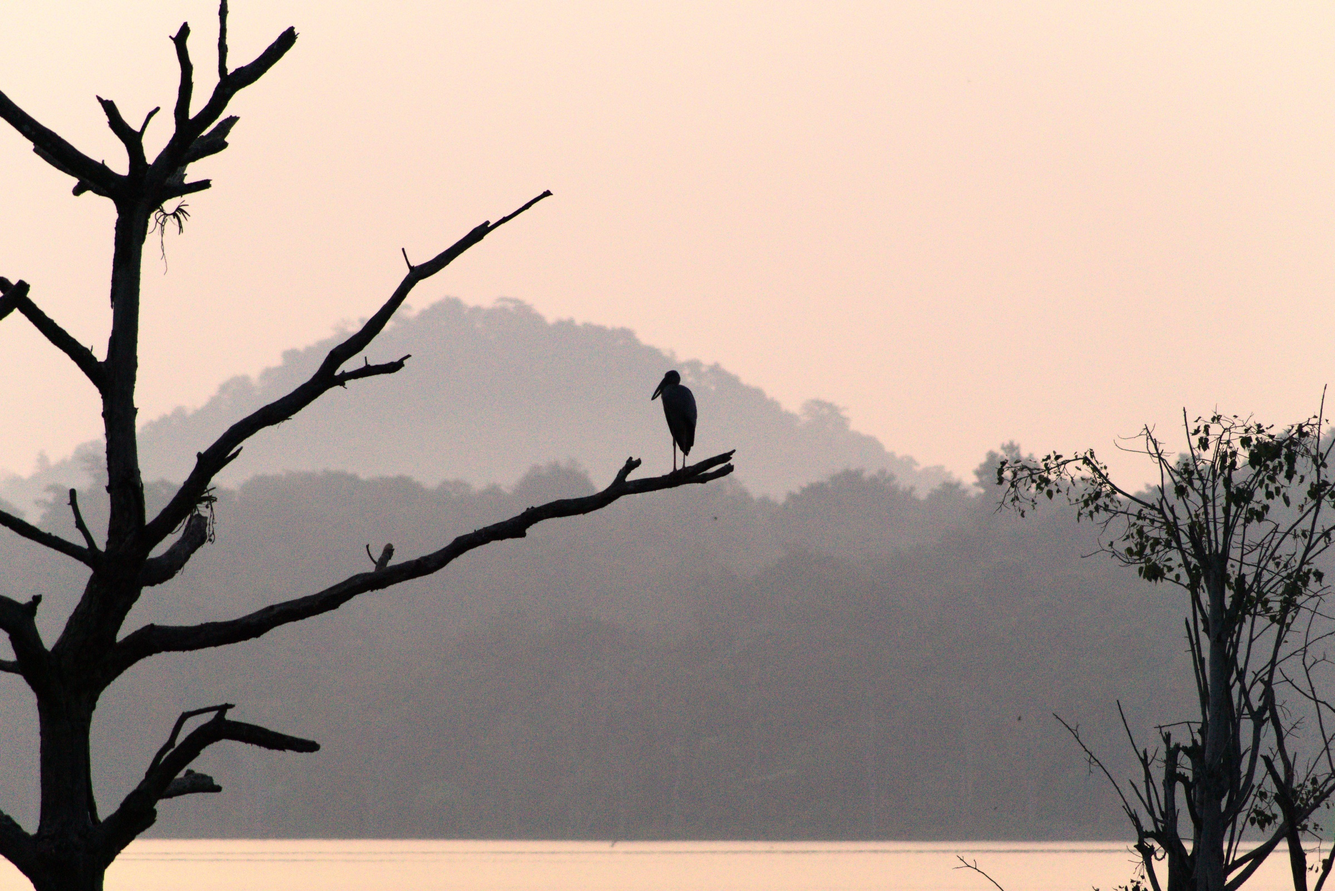
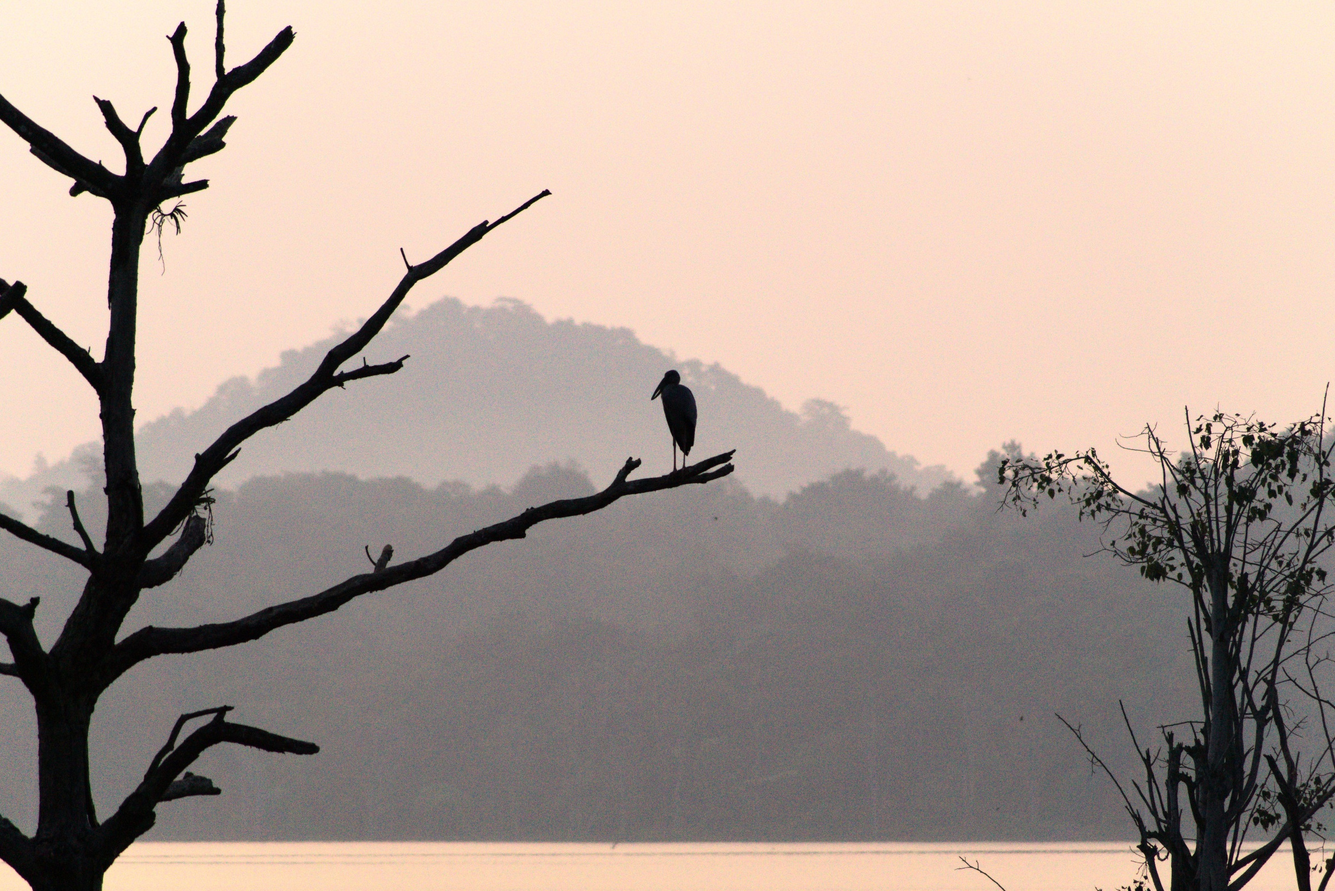
lens: cut 12 weak/duplicate frames, level driftwood/openbill/blue-break, flush masonry grid
- Removed: giant-clam, giant-moray, moray-crevice, moon-jelly (soft/murky underwater),
  valparai-dusk (duplicate of valley-dusk), wake, palm-road, forest-mirror,
  moonrise-cliff, pink-clouds (near-duplicate of sunburst-pine), peacock-display
  (fourth peacock), sandstone-cliffs (duplicate of cliff-gold)
- brain-coral moved from Selected to the archive (motion blur)
- Levelled pink-driftwood (-0.6), heron-snag (+0.15), blue-break (-0.21);
  trimmed a 6px light strip off harbour-afterglow's left edge
- Selected grid: row-major masonry (shortest-column), order tuned so the 2- and
  3-column layouts both end flush; similar frames kept apart

diff --git a/src/lib/lens.ts b/src/lib/lens.ts
@@ -99,78 +99,66 @@ export const services = [
 export const gear = ["GoPro HERO9 Black", "Sony α58", "SJCAM 4K", "Phone (Samsung / OnePlus)", "Edit: DaVinci Resolve, ffmpeg, custom grading"];
 
 export const photos: LensPhoto[] = [
-  { slug: "heron-snag", title: "Asian openbill at first light", place: "Dubare, Karnataka", date: "2017", cat: "wildlife", w: 2400, h: 1602, species: "Anastomus oscitans", selected: 2.5 },
-  { slug: "dawn-snags", title: "Drowned forest, sunrise", place: "Dubare, Karnataka", date: "2017", cat: "landscape", w: 2400, h: 1602, selected: 9.2 },
+  { slug: "heron-snag", title: "Asian openbill at first light", place: "Dubare, Karnataka", date: "2017", cat: "wildlife", w: 2400, h: 1602, species: "Anastomus oscitans", selected: 4 },
+  { slug: "dawn-snags", title: "Drowned forest, sunrise", place: "Dubare, Karnataka", date: "2017", cat: "landscape", w: 2400, h: 1602, selected: 20 },
   { slug: "sun-snag", title: "Still water, low sun", place: "Dubare, Karnataka", date: "2017", cat: "landscape", w: 1602, h: 2400 },
   { slug: "cormorant-snag", title: "Cormorant", place: "Dubare, Karnataka", date: "2017", cat: "wildlife", w: 1919, h: 2400, species: "Phalacrocoracidae" },
-  { slug: "vine-snake", title: "Green vine snake", place: "Dandeli, Karnataka", date: "Oct 2018", cat: "wildlife", w: 1601, h: 2001, species: "Ahaetulla nasuta", selected: 0 },
+  { slug: "vine-snake", title: "Green vine snake", place: "Dandeli, Karnataka", date: "Oct 2018", cat: "wildlife", w: 1601, h: 2001, species: "Ahaetulla nasuta", selected: 1 },
   { slug: "spotted-deer", title: "Chital", place: "Dandeli, Karnataka", date: "Oct 2018", cat: "wildlife", w: 2400, h: 1600, species: "Axis axis" },
   { slug: "golden-orb", title: "Giant golden orb weaver", place: "Western Ghats", date: "Sep 2018", cat: "macro", w: 1920, h: 2400, species: "Nephila pilipes" },
   { slug: "grass-sun", title: "Last light", place: "Dandeli, Karnataka", date: "Oct 2018", cat: "landscape", w: 2400, h: 1600 },
-  { slug: "dudhsagar-tunnel", title: "Dudhsagar through the tunnel", place: "Goa–Karnataka border", date: "Oct 2018", cat: "landscape", w: 1919, h: 2400, selected: 19 },
-  { slug: "lotus-mahal-arches", title: "Arches, Lotus Mahal", place: "Hampi", date: "Jul 2019", cat: "architecture", w: 1920, h: 2400, selected: 6 },
+  { slug: "dudhsagar-tunnel", title: "Dudhsagar through the tunnel", place: "Goa–Karnataka border", date: "Oct 2018", cat: "landscape", w: 1919, h: 2400, selected: 5 },
+  { slug: "lotus-mahal-arches", title: "Arches, Lotus Mahal", place: "Hampi", date: "Jul 2019", cat: "architecture", w: 1920, h: 2400, selected: 3 },
   { slug: "stepped-tank", title: "Stepped tank", place: "Hampi", date: "Jul 2019", cat: "architecture", w: 2400, h: 1600 },
   { slug: "elephant-stables", title: "Elephant stables", place: "Hampi", date: "Jul 2019", cat: "architecture", w: 2400, h: 1349 },
-  { slug: "wave-silhouette", title: "Silver sea", place: "Mangaluru", date: "Aug 2019", cat: "seascape", w: 2400, h: 1600, selected: 12 },
+  { slug: "wave-silhouette", title: "Silver sea", place: "Mangaluru", date: "Aug 2019", cat: "seascape", w: 2400, h: 1600, selected: 28 },
   { slug: "diya", title: "Diya", place: "Karnataka", date: "Dec 2014", cat: "macro", w: 1920, h: 2400 },
-  { slug: "peacock-fan", title: "Indian peafowl", place: "Jogimatti", date: "2015", cat: "wildlife", w: 1920, h: 2400, species: "Pavo cristatus", selected: 13 },
+  { slug: "peacock-fan", title: "Indian peafowl", place: "Jogimatti", date: "2015", cat: "wildlife", w: 1920, h: 2400, species: "Pavo cristatus", selected: 11 },
   { slug: "peacock-ooty", title: "Indian peafowl", place: "Ooty", date: "2013", cat: "wildlife", w: 1878, h: 2348, species: "Pavo cristatus" },
   { slug: "elephant-herd", title: "Asian elephants", place: "Masinagudi", date: "Jul 2022", cat: "wildlife", w: 2400, h: 1600, species: "Elephas maximus" },
-  { slug: "yana-spires", title: "Yana", place: "Uttara Kannada", date: "Nov 2020", cat: "landscape", w: 1920, h: 2400, selected: 18 },
-  { slug: "sea-cave-window", title: "Window", place: "Andaman Islands", date: "2023", cat: "adventure", w: 1920, h: 2400, selected: 5 },
+  { slug: "yana-spires", title: "Yana", place: "Uttara Kannada", date: "Nov 2020", cat: "landscape", w: 1920, h: 2400, selected: 16 },
+  { slug: "sea-cave-window", title: "Window", place: "Andaman Islands", date: "2023", cat: "adventure", w: 1920, h: 2400, selected: 12 },
   { slug: "tidepools", title: "Tidepools", place: "Andaman Islands", date: "May 2023", cat: "seascape", w: 2271, h: 1514 },
   { slug: "mangrove", title: "Mangrove", place: "Andaman Islands", date: "Apr 2022", cat: "seascape", w: 2400, h: 1600 },
-  { slug: "trees-in-the-tide", title: "Trees in the tide", place: "Andaman Islands", date: "Apr 2022", cat: "seascape", w: 2400, h: 1350, selected: 15 },
-  { slug: "forest-mirror", title: "Forest mirror", place: "Andaman Islands", date: "Apr 2022", cat: "landscape", w: 2400, h: 1350 },
-  { slug: "valparai-dusk", title: "Valley at dusk", place: "Valparai", date: "Nov 2023", cat: "landscape", w: 2400, h: 1600 },
-  { slug: "clownfish", title: "Ocellaris clownfish", place: "Andaman Islands", date: "2023", cat: "underwater", w: 1440, h: 1800, species: "Amphiprion ocellaris", selected: 2 },
-  { slug: "wake", title: "Wake", place: "Andaman Sea", date: "Apr 2022", cat: "seascape", w: 1459, h: 1824 },
-  { slug: "palm-road", title: "Palm road", place: "Goa", date: "Oct 2021", cat: "landscape", w: 1504, h: 1880 },
-  { slug: "gaur", title: "Indian gaur", place: "Masinagudi, Nilgiris", date: "Jul 2022", cat: "wildlife", w: 2400, h: 1599, species: "Bos gaurus", selected: 1 },
-  { slug: "vulture-flock", title: "White-rumped vultures", place: "Masinagudi, Nilgiris", date: "Jul 2022", cat: "wildlife", w: 2400, h: 1350, species: "Gyps bengalensis · Critically Endangered", selected: 3 },
+  { slug: "trees-in-the-tide", title: "Trees in the tide", place: "Andaman Islands", date: "Apr 2022", cat: "seascape", w: 2400, h: 1350, selected: 27 },
+  { slug: "clownfish", title: "Ocellaris clownfish", place: "Andaman Islands", date: "2023", cat: "underwater", w: 1440, h: 1800, species: "Amphiprion ocellaris", selected: 13 },
+  { slug: "gaur", title: "Indian gaur", place: "Masinagudi, Nilgiris", date: "Jul 2022", cat: "wildlife", w: 2400, h: 1599, species: "Bos gaurus", selected: 6 },
+  { slug: "vulture-flock", title: "White-rumped vultures", place: "Masinagudi, Nilgiris", date: "Jul 2022", cat: "wildlife", w: 2400, h: 1350, species: "Gyps bengalensis · Critically Endangered", selected: 31 },
   { slug: "vultures-wings", title: "White-rumped vultures", place: "Masinagudi, Nilgiris", date: "Jul 2022", cat: "wildlife", w: 2400, h: 1600, species: "Gyps bengalensis · Critically Endangered" },
-  { slug: "tusker", title: "Asian elephant", place: "Masinagudi, Nilgiris", date: "Jul 2022", cat: "wildlife", w: 1921, h: 2400, species: "Elephas maximus", selected: 10 },
+  { slug: "tusker", title: "Asian elephant", place: "Masinagudi, Nilgiris", date: "Jul 2022", cat: "wildlife", w: 1921, h: 2400, species: "Elephas maximus", selected: 15 },
   { slug: "peacock-train", title: "Indian peafowl", place: "Masinagudi, Nilgiris", date: "Jul 2022", cat: "wildlife", w: 2400, h: 1600, species: "Pavo cristatus" },
-  { slug: "peacock-display", title: "Indian peafowl", place: "Masinagudi, Nilgiris", date: "Jul 2022", cat: "wildlife", w: 1716, h: 2144, species: "Pavo cristatus" },
-  { slug: "deer-and-boar", title: "Chital & Indian wild boar", place: "Masinagudi, Nilgiris", date: "Jul 2022", cat: "wildlife", w: 2400, h: 1600, species: "Axis axis · Sus scrofa", selected: 16 },
+  { slug: "deer-and-boar", title: "Chital & Indian wild boar", place: "Masinagudi, Nilgiris", date: "Jul 2022", cat: "wildlife", w: 2400, h: 1600, species: "Axis axis · Sus scrofa", selected: 26 },
   { slug: "wild-boar", title: "Indian wild boar", place: "Masinagudi, Nilgiris", date: "Jul 2022", cat: "wildlife", w: 2026, h: 1350, species: "Sus scrofa cristatus" },
   { slug: "anthias-whip", title: "Sea goldies", place: "Andaman Islands", date: "", cat: "underwater", w: 864, h: 1080, species: "Pseudanthias squamipinnis" },
   { slug: "barrel-coral", title: "Barrel sponge", place: "Andaman Islands", date: "", cat: "underwater", w: 2400, h: 1600, species: "Xestospongia sp." },
   { slug: "blue-sea-star", title: "Blue sea star", place: "Andaman Islands", date: "", cat: "underwater", w: 905, h: 1131, species: "Linckia laevigata" },
-  { slug: "brain-coral", title: "Brain coral", place: "Andaman Islands", date: "", cat: "underwater", w: 1156, h: 1444, species: "Platygyra sp.", selected: 14 },
+  { slug: "brain-coral", title: "Brain coral", place: "Andaman Islands", date: "", cat: "underwater", w: 1156, h: 1444, species: "Platygyra sp." },
   { slug: "crinoid", title: "Feather star", place: "Andaman Islands", date: "", cat: "underwater", w: 1273, h: 1590, species: "Crinoidea" },
   { slug: "feather-star", title: "Feather star", place: "Andaman Islands", date: "", cat: "underwater", w: 1080, h: 1350, species: "Crinoidea" },
-  { slug: "fish-school", title: "Fusiliers", place: "Andaman Islands", date: "", cat: "underwater", w: 1728, h: 2160, species: "Caesionidae", selected: 8 },
-  { slug: "giant-clam", title: "Giant clam", place: "Andaman Islands", date: "", cat: "underwater", w: 1520, h: 1900, species: "Tridacna sp.", selected: 17 },
-  { slug: "moon-jelly", title: "Jellyfish", place: "Andaman Islands", date: "", cat: "underwater", w: 1080, h: 1350, species: "Scyphozoa" },
-  { slug: "sea-fan", title: "Sea fan & sea goldies", place: "Andaman Islands", date: "", cat: "underwater", w: 1080, h: 1350, species: "Pseudanthias squamipinnis", selected: 4 },
+  { slug: "fish-school", title: "Fusiliers", place: "Andaman Islands", date: "", cat: "underwater", w: 1728, h: 2160, species: "Caesionidae", selected: 17 },
+  { slug: "sea-fan", title: "Sea fan & sea goldies", place: "Andaman Islands", date: "", cat: "underwater", w: 1080, h: 1350, species: "Pseudanthias squamipinnis", selected: 7 },
   { slug: "sea-krait", title: "Banded sea krait", place: "Andaman Islands", date: "", cat: "underwater", w: 2280, h: 1520, species: "Laticauda colubrina" },
-  { slug: "staghorn-anthias", title: "Staghorn coral", place: "Andaman Islands", date: "", cat: "underwater", w: 1520, h: 1900, species: "Acropora sp.", selected: 7 },
+  { slug: "staghorn-anthias", title: "Staghorn coral", place: "Andaman Islands", date: "", cat: "underwater", w: 1520, h: 1900, species: "Acropora sp.", selected: 2 },
   { slug: "sweetlips", title: "Titan triggerfish", place: "Andaman Islands", date: "", cat: "underwater", w: 2000, h: 1333, species: "Balistoides viridescens" },
-  { slug: "table-coral", title: "Butterflyfish", place: "Andaman Islands", date: "", cat: "underwater", w: 2400, h: 1599, species: "Chaetodon sp.", selected: 11 },
+  { slug: "table-coral", title: "Butterflyfish", place: "Andaman Islands", date: "", cat: "underwater", w: 2400, h: 1599, species: "Chaetodon sp.", selected: 30 },
   { slug: "trevally", title: "Trevally", place: "Andaman Islands", date: "", cat: "underwater", w: 2400, h: 1600, species: "Carangidae" },
-  { slug: "giant-moray", title: "Giant moray", place: "Andaman Islands", date: "", cat: "underwater", w: 2067, h: 3102, species: "Gymnothorax javanicus" },
-  { slug: "moray-crevice", title: "Moray eel", place: "Andaman Islands", date: "", cat: "underwater", w: 1273, h: 1590, species: "Muraenidae" },
   // from Instagram (JP's own edits)
-  { slug: "pink-driftwood", title: "Driftwood at dusk", place: "Andaman Islands", date: "Jan 2024", cat: "seascape", w: 1078, h: 565, selected: 9.5 },
-  { slug: "valley-dusk", title: "Valley at last light", place: "India", date: "Jan 2024", cat: "landscape", w: 1078, h: 565, selected: 1.5 },
-  { slug: "mountain-wildflowers", title: "Wildflowers under the range", place: "India", date: "May 2025", cat: "landscape", w: 1440, h: 1800, selected: 6.5 },
-  { slug: "ocean-pool", title: "Ocean pool", place: "Sydney", date: "May 2025", cat: "seascape", w: 1440, h: 1800, selected: 7.5 },
-  { slug: "beached-boat", title: "Low tide, last light", place: "Andaman Islands", date: "Mar 2023", cat: "seascape", w: 1440, h: 1080, selected: 9.7 },
-  { slug: "moon-boat", title: "Moonlight on the bay", place: "Andaman Islands", date: "Apr 2023", cat: "seascape", w: 1440, h: 754, selected: 15.5 },
-  { slug: "rainbow-surf", title: "Rainbow over the break", place: "Sydney", date: "May 2025", cat: "seascape", w: 1440, h: 1800, selected: 3.5 },
-  { slug: "arch-window", title: "Window in the rock", place: "Andaman Islands", date: "Mar 2024", cat: "adventure", w: 1080, h: 1350, selected: 5.5 },
-  { slug: "harbour-fireworks", title: "New Year over the harbour", place: "Sydney", date: "Jan 2025", cat: "landscape", w: 1440, h: 640, selected: 13.5 },
-  { slug: "moonrise-cliff", title: "Moonrise over the headland", place: "Sydney", date: "2026", cat: "seascape", w: 1440, h: 1800 },
+  { slug: "pink-driftwood", title: "Driftwood at dusk", place: "Andaman Islands", date: "Jan 2024", cat: "seascape", w: 1078, h: 565, selected: 23 },
+  { slug: "valley-dusk", title: "Valley at last light", place: "India", date: "Jan 2024", cat: "landscape", w: 1078, h: 565, selected: 21 },
+  { slug: "mountain-wildflowers", title: "Wildflowers under the range", place: "India", date: "May 2025", cat: "landscape", w: 1440, h: 1800, selected: 29 },
+  { slug: "ocean-pool", title: "Ocean pool", place: "Sydney", date: "May 2025", cat: "seascape", w: 1440, h: 1800, selected: 18 },
+  { slug: "beached-boat", title: "Low tide, last light", place: "Andaman Islands", date: "Mar 2023", cat: "seascape", w: 1440, h: 1080, selected: 25 },
+  { slug: "moon-boat", title: "Moonlight on the bay", place: "Andaman Islands", date: "Apr 2023", cat: "seascape", w: 1440, h: 754, selected: 32 },
+  { slug: "rainbow-surf", title: "Rainbow over the break", place: "Sydney", date: "May 2025", cat: "seascape", w: 1440, h: 1800, selected: 14 },
+  { slug: "arch-window", title: "Window in the rock", place: "Andaman Islands", date: "Mar 2024", cat: "adventure", w: 1080, h: 1350, selected: 19 },
+  { slug: "harbour-fireworks", title: "New Year over the harbour", place: "Sydney", date: "Jan 2025", cat: "landscape", w: 1440, h: 640, selected: 22 },
   { slug: "eucalypt-sunset", title: "Sun down behind the gums", place: "Sydney", date: "2026", cat: "landscape", w: 2400, h: 1350 },
   { slug: "blue-break", title: "Blue break", place: "Sydney", date: "2026", cat: "seascape", w: 2400, h: 1350 },
-  { slug: "rockpool-light", title: "Rock pools, low sun", place: "Sydney", date: "2026", cat: "seascape", w: 1440, h: 1800, selected: 11.5 },
-  { slug: "sandstone-cliffs", title: "Sandstone cliffs, squall", place: "Sydney", date: "2026", cat: "seascape", w: 2400, h: 1350 },
-  { slug: "cliff-gold", title: "Cliffs under a gold sky", place: "Sydney", date: "2026", cat: "seascape", w: 2334, h: 1311, selected: 12.5 },
-  { slug: "boardwalk-dusk", title: "Boardwalk at dusk", place: "Sydney", date: "2026", cat: "landscape", w: 2361, h: 1325, selected: 10.5 },
+  { slug: "rockpool-light", title: "Rock pools, low sun", place: "Sydney", date: "2026", cat: "seascape", w: 1440, h: 1800, selected: 9 },
+  { slug: "cliff-gold", title: "Cliffs under a gold sky", place: "Sydney", date: "2026", cat: "seascape", w: 2334, h: 1311, selected: 10 },
+  { slug: "boardwalk-dusk", title: "Boardwalk at dusk", place: "Sydney", date: "2026", cat: "landscape", w: 2361, h: 1325, selected: 24 },
   { slug: "sunburst-pine", title: "Sunburst and pine", place: "Sydney", date: "2026", cat: "landscape", w: 1440, h: 1800 },
-  { slug: "harbour-afterglow", title: "Harbour afterglow", place: "Sydney", date: "2026", cat: "landscape", w: 2400, h: 1350, selected: 8.5 },
-  { slug: "pink-clouds", title: "Pink clouds", place: "Sydney", date: "2026", cat: "landscape", w: 1440, h: 1800 },
+  { slug: "harbour-afterglow", title: "Harbour afterglow", place: "Sydney", date: "2026", cat: "landscape", w: 2394, h: 1347, selected: 8 },
 ];
 
 export const selectedPhotos = photos

diff --git a/src/components/lens/photo-gallery.tsx b/src/components/lens/photo-gallery.tsx
@@ -78,22 +78,55 @@ function useLightbox(len: number) {
   return { i, setI, step, close };
 }
 
+// Row-major masonry: each frame goes into the currently shortest column, so the
+// reading order runs across the page and the columns end level (the order in
+// lens.ts is tuned so both the 2- and 3-column layouts finish flush).
+function distribute(photos: LensPhoto[], n: number, gap: number) {
+  const cols = Array.from({ length: n }, () => ({ h: 0, items: [] as { p: LensPhoto; i: number }[] }));
+  photos.forEach((p, i) => {
+    let k = 0;
+    for (let j = 1; j < n; j++) if (cols[j].h < cols[k].h - 1e-4) k = j;
+    cols[k].items.push({ p, i });
+    cols[k].h += p.h / p.w + gap;
+  });
+  return cols.map((c) => c.items);
+}
+
 // Selected work: masonry columns, frames at their own aspect.
 export function SelectedGrid({ photos }: { photos: LensPhoto[] }) {
   const lb = useLightbox(photos.length);
+  const three = useMemo(() => distribute(photos, 3, 12 / 354.66), [photos]);
+  const two = useMemo(() => distribute(photos, 2, 8 / 176), [photos]);
+  const layout = (cols: { p: LensPhoto; i: number }[][], cls: string) => (
+    <div className={cls}>
+      {cols.map((col, c) => (
+        <div key={c} className="flex min-w-0 flex-1 flex-col gap-2 sm:gap-3">
+          {col.map(({ p, i }) => (
+            <Frame key={p.slug} p={p} eager={i < 3} onOpen={() => lb.setI(i)} />
+          ))}
+        </div>
+      ))}
+    </div>
+  );
   return (
     <>
-      {/* masonry columns: every frame keeps its own aspect ratio, no holes */}
-      <div className="columns-2 gap-2 sm:gap-3 lg:columns-3">
-        {photos.map((p, i) => (
-          <figure key={p.slug} className="group relative mb-2 break-inside-avoid overflow-hidden rounded-xl bg-surface sm:mb-3" style={{ aspectRatio: `${p.w} / ${p.h}` }}>
-            <button type="button" onClick={() => lb.setI(i)} className="absolute inset-0" aria-label={`Open ${p.title}`}>
+      {layout(two, "flex gap-2 sm:gap-3 lg:hidden")}
+      {layout(three, "hidden gap-3 lg:flex")}
+      <Lightbox list={photos} index={lb.i} onClose={lb.close} onStep={lb.step} />
+    </>
+  );
+}
+
+function Frame({ p, eager, onOpen }: { p: LensPhoto; eager: boolean; onOpen: () => void }) {
+  return (
+          <figure className="group relative overflow-hidden rounded-xl bg-surface" style={{ aspectRatio: `${p.w} / ${p.h}` }}>
+            <button type="button" onClick={onOpen} className="absolute inset-0" aria-label={`Open ${p.title}`}>
               <Image
                 src={`/lens/photos/${p.slug}.jpg`}
                 alt={p.species ? `${p.title} (${p.species})` : p.title}
                 fill
                 sizes="(max-width: 1024px) 50vw, 33vw"
-                loading={i < 3 ? "eager" : "lazy"}
+                loading={eager ? "eager" : "lazy"}
                 className="object-cover transition-transform duration-[1200ms] [transition-timing-function:cubic-bezier(0.22,1,0.36,1)] group-hover:scale-[1.04]"
               />
             </button>
@@ -104,10 +137,6 @@ export function SelectedGrid({ photos }: { photos: LensPhoto[] }) {
               </figcaption>
             ) : null}
           </figure>
-        ))}
-      </div>
-      <Lightbox list={photos} index={lb.i} onClose={lb.close} onStep={lb.step} />
-    </>
   );
 }
 
